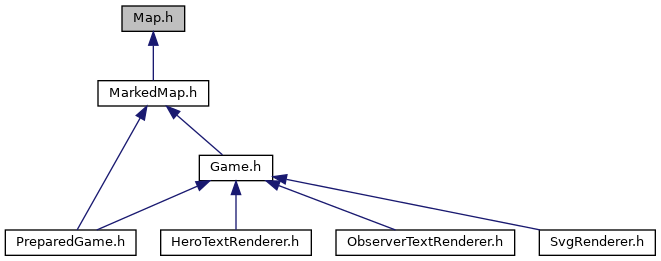
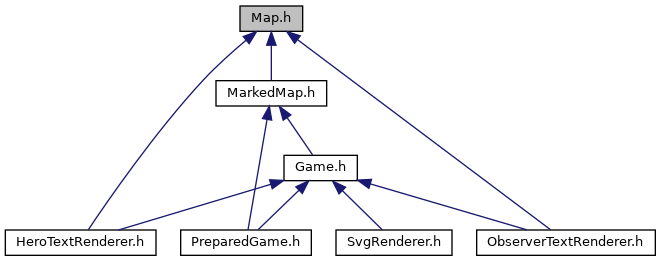
Update gh-pages to output generated at 7871922

diff --git a/HeroTextRenderer_8h_source.html b/HeroTextRenderer_8h_source.html
@@ -73,7 +73,7 @@ $(function() {
 <div class="line"><a name="l00014"></a><span class="lineno">   14</span>&#160; </div>
 <div class="line"><a name="l00015"></a><span class="lineno">   15</span>&#160;<span class="preprocessor">#include &quot;TextRenderer.h&quot;</span></div>
 <div class="line"><a name="l00016"></a><span class="lineno">   16</span>&#160;<span class="preprocessor">#include &quot;<a class="code" href="Game_8h.html">Game.h</a>&quot;</span></div>
-<div class="line"><a name="l00017"></a><span class="lineno">   17</span>&#160;<span class="preprocessor">#include &quot;map.h&quot;</span></div>
+<div class="line"><a name="l00017"></a><span class="lineno">   17</span>&#160;<span class="preprocessor">#include &quot;<a class="code" href="Map_8h.html">Map.h</a>&quot;</span></div>
 <div class="line"><a name="l00018"></a><span class="lineno">   18</span>&#160; </div>
 <div class="line"><a name="l00019"></a><span class="lineno"><a class="line" href="classHeroTextRenderer.html">   19</a></span>&#160;<span class="keyword">class </span><a class="code" href="classHeroTextRenderer.html">HeroTextRenderer</a> : <span class="keyword">public</span> <a class="code" href="classTextRenderer.html">TextRenderer</a></div>
 <div class="line"><a name="l00020"></a><span class="lineno">   20</span>&#160;{</div>
@@ -84,6 +84,7 @@ $(function() {
 <div class="line"><a name="l00025"></a><span class="lineno">   25</span>&#160; </div>
 <div class="line"><a name="l00026"></a><span class="lineno">   26</span>&#160;<span class="preprocessor">#endif // HeroTextRenderer</span></div>
 </div><!-- fragment --></div><!-- contents -->
+<div class="ttc" id="aMap_8h_html"><div class="ttname"><a href="Map_8h.html">Map.h</a></div><div class="ttdoc">Map class.</div></div>
 <div class="ttc" id="aclassTextRenderer_html"><div class="ttname"><a href="classTextRenderer.html">TextRenderer</a></div><div class="ttdoc">TextRenderer class.</div><div class="ttdef"><b>Definition:</b> TextRenderer.h:19</div></div>
 <div class="ttc" id="aclassHeroTextRenderer_html"><div class="ttname"><a href="classHeroTextRenderer.html">HeroTextRenderer</a></div><div class="ttdoc">HeroTextRenderer class.</div><div class="ttdef"><b>Definition:</b> HeroTextRenderer.h:19</div></div>
 <div class="ttc" id="aclassGame_html"><div class="ttname"><a href="classGame.html">Game</a></div><div class="ttdef"><b>Definition:</b> Game.h:31</div></div>

diff --git a/ObserverTextRenderer_8h_source.html b/ObserverTextRenderer_8h_source.html
@@ -73,7 +73,7 @@ $(function() {
 <div class="line"><a name="l00014"></a><span class="lineno">   14</span>&#160; </div>
 <div class="line"><a name="l00015"></a><span class="lineno">   15</span>&#160;<span class="preprocessor">#include &quot;TextRenderer.h&quot;</span></div>
 <div class="line"><a name="l00016"></a><span class="lineno">   16</span>&#160;<span class="preprocessor">#include &quot;<a class="code" href="Game_8h.html">Game.h</a>&quot;</span></div>
-<div class="line"><a name="l00017"></a><span class="lineno">   17</span>&#160;<span class="preprocessor">#include &quot;map.h&quot;</span></div>
+<div class="line"><a name="l00017"></a><span class="lineno">   17</span>&#160;<span class="preprocessor">#include &quot;<a class="code" href="Map_8h.html">Map.h</a>&quot;</span></div>
 <div class="line"><a name="l00018"></a><span class="lineno">   18</span>&#160; </div>
 <div class="line"><a name="l00019"></a><span class="lineno"><a class="line" href="classObserverTextRenderer.html">   19</a></span>&#160;<span class="keyword">class </span><a class="code" href="classObserverTextRenderer.html">ObserverTextRenderer</a> : <span class="keyword">public</span> <a class="code" href="classTextRenderer.html">TextRenderer</a></div>
 <div class="line"><a name="l00020"></a><span class="lineno">   20</span>&#160;{</div>
@@ -84,6 +84,7 @@ $(function() {
 <div class="line"><a name="l00025"></a><span class="lineno">   25</span>&#160; </div>
 <div class="line"><a name="l00026"></a><span class="lineno">   26</span>&#160;<span class="preprocessor">#endif // OBSERVERTEXTRENDERER_HEADER</span></div>
 </div><!-- fragment --></div><!-- contents -->
+<div class="ttc" id="aMap_8h_html"><div class="ttname"><a href="Map_8h.html">Map.h</a></div><div class="ttdoc">Map class.</div></div>
 <div class="ttc" id="aclassTextRenderer_html"><div class="ttname"><a href="classTextRenderer.html">TextRenderer</a></div><div class="ttdoc">TextRenderer class.</div><div class="ttdef"><b>Definition:</b> TextRenderer.h:19</div></div>
 <div class="ttc" id="aclassGame_html"><div class="ttname"><a href="classGame.html">Game</a></div><div class="ttdef"><b>Definition:</b> Game.h:31</div></div>
 <div class="ttc" id="aGame_8h_html"><div class="ttname"><a href="Game_8h.html">Game.h</a></div><div class="ttdoc">Game class.</div></div>

diff --git a/Map_8h.html b/Map_8h.html
@@ -95,13 +95,13 @@ This graph shows which files directly or indirectly include this file:</div>
 <div class="dyncontent">
 <div class="center"><img src="Map_8h__dep__incl.png" border="0" usemap="#Map_8hdep" alt=""/></div>
 <map name="Map_8hdep" id="Map_8hdep">
-<area shape="rect" title="Map class." alt="" coords="122,5,185,32"/>
-<area shape="rect" href="MarkedMap_8h_source.html" title=" " alt="" coords="98,80,209,107"/>
-<area shape="rect" href="Game_8h.html" title="Game class." alt="" coords="199,155,273,181"/>
-<area shape="rect" href="PreparedGame_8h.html" title="PreparedGame class." alt="" coords="5,229,136,256"/>
-<area shape="rect" href="HeroTextRenderer_8h_source.html" title=" " alt="" coords="161,229,311,256"/>
-<area shape="rect" href="ObserverTextRenderer_8h_source.html" title=" " alt="" coords="336,229,515,256"/>
-<area shape="rect" href="SvgRenderer_8h_source.html" title=" " alt="" coords="539,229,655,256"/>
+<area shape="rect" title="Map class." alt="" coords="240,5,303,32"/>
+<area shape="rect" href="MarkedMap_8h_source.html" title=" " alt="" coords="216,80,327,107"/>
+<area shape="rect" href="HeroTextRenderer_8h_source.html" title=" " alt="" coords="5,229,156,256"/>
+<area shape="rect" href="ObserverTextRenderer_8h_source.html" title=" " alt="" coords="477,229,655,256"/>
+<area shape="rect" href="Game_8h.html" title="Game class." alt="" coords="284,155,357,181"/>
+<area shape="rect" href="PreparedGame_8h.html" title="PreparedGame class." alt="" coords="181,229,311,256"/>
+<area shape="rect" href="SvgRenderer_8h_source.html" title=" " alt="" coords="336,229,452,256"/>
 </map>
 </div>
 </div>
